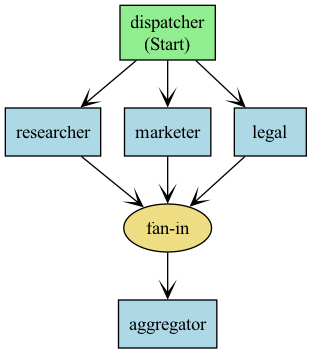
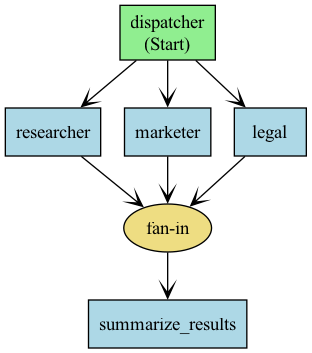
a

Changed region(s): [[0.2596, 0.8414, 0.8077, 0.9972]]

diff --git a/nlp_processing/43/run.py b/nlp_processing/43/run.py
@@ -3,12 +3,36 @@ from typing import Any
 from azure.identity.aio import AzureCliCredential
 from agent_framework.azure import AzureOpenAIChatClient
 from agent_framework import ConcurrentBuilder
-from agent_framework import ChatMessage, WorkflowOutputEvent, WorkflowViz
+from agent_framework import ChatMessage, Role, WorkflowOutputEvent, WorkflowViz
 
 
-def create_workflow() -> None:
-    chat_client = AzureOpenAIChatClient(credential=AzureCliCredential())
+def create_workflow(chat_client: AzureOpenAIChatClient) -> None:
+    # カスタムアグリゲーター関数を定義（chat_clientにアクセスするためにクロージャーを使用）
+    async def summarize_results(results: list[Any], ctx: Any) -> str:
+        # Extract one final assistant message per agent
+        expert_sections: list[str] = []
+        for r in results:
+            try:
+                messages = getattr(r.agent_run_response, "messages", [])
+                final_text = messages[-1].text if messages and hasattr(messages[-1], "text") else "(no content)"
+                expert_sections.append(f"{getattr(r, 'executor_id', 'expert')}:\n{final_text}")
+            except Exception as e:
+                expert_sections.append(f"{getattr(r, 'executor_id', 'expert')}: (error: {type(e).__name__}: {e})")
 
+        # Ask the model to synthesize a concise summary of the experts' outputs
+        system_msg = ChatMessage(
+            Role.SYSTEM,
+            text=(
+                "あなたは複数のドメイン専門家の出力を1つのまとまりのある簡潔な要約に統合する"
+                "優秀なアシスタントです。重要なポイントを明確にして、200語以内にまとめてください。"
+            ),
+        )
+        user_msg = ChatMessage(Role.USER, text="\n\n".join(expert_sections))
+
+        response = await chat_client.get_response([system_msg, user_msg])
+        # Return the model's final assistant text as the completion result
+        return response.messages[-1].text if response.messages else ""
+    
     # 1) AI Agent を作成する
     researcher = chat_client.create_agent(
         instructions=(
@@ -32,8 +56,19 @@ def create_workflow() -> None:
     )
 
     # 2) マルチ AI Agent から構成される並列処理のワークフローを作成する
-    # Participants are either Agents (type of AgentProtocol) or Executors
-    workflow = ConcurrentBuilder().participants([researcher, marketer, legal]).build()
+    # デフォルトの aggregator を使用する場合
+    # workflow = (
+    #     ConcurrentBuilder()
+    #     .participants([researcher, marketer, legal])
+    #     .build()
+    # )
+    # 独自の aggregator を使用する場合
+    workflow = (
+        ConcurrentBuilder()
+        .participants([researcher, marketer, legal])
+        .with_aggregator(summarize_results)
+        .build()
+    )
     return workflow
 
 
@@ -49,15 +84,21 @@ async def run_workflow(workflow) -> None:
 
     if completion:
         print("===== 最終的な応答 (messages) =====")
-        messages: list[ChatMessage] | Any = completion.data
-        for i, msg in enumerate(messages, start=1):
-            name = msg.author_name if msg.author_name else "user"
-            print(f"{'-' * 60}\n\n{i:02d} [{name}]:\n{msg.text}")
+        # デフォルトの aggregator を使用する場合
+        # messages: list[ChatMessage] | Any = completion.data
+        # for i, msg in enumerate(messages, start=1):
+        #     name = msg.author_name if msg.author_name else "user"
+        #     print(f"{'-' * 60}\n\n{i:02d} [{name}]:\n{msg.text}")
+
+        # 独自の aggregator を使用する場合
+        print(completion.data)
 
 
 if __name__ == "__main__":
+    chat_client = AzureOpenAIChatClient(credential=AzureCliCredential())
+
     # AI Agent とワークフローを作成
-    workflow = create_workflow()
+    workflow = create_workflow(chat_client)
 
     # ワークフローを実行
     asyncio.run(run_workflow(workflow))

diff --git a/nlp_processing/43/README.md b/nlp_processing/43/README.md
@@ -52,7 +52,7 @@
 
     ポイントは、以下の通り
 
-    - 以下の３つの AI Agent の並列処理から構成されるマルチエージェントのワークフローになっている
+    - 以下の３つの AI Agent の並列処理と１つの要約用 aggregator から構成されるマルチエージェントのワークフローになっている
 
         - Researcher の AI Agent
             - プロンプトで市場調査と製品調査の専門家と指示しただけの簡単な AI Agent
@@ -63,15 +63,21 @@
         - Legal の AI Agent
             - プロンプトで法務・コンプライアンスレビュアーと指示しただけの簡単な AI Agent
 
+        - 要約用 aggregator (AI Agent とみなすこともできる)
+
+            上記３つの AI Agent の応答を要約する AI Agent
+
+
 1. Microsoft Agent Framework を使用したコードを実行する
 
     ```bash
     python run.py
     ```
 
+    各 Agent の応答
+
     ```bash
     入力プロンプト:  新しい価格帯の電動自転車を都市部での通勤に向けて発売することについて、市場調査と製品調査を行ってください。
-    ===== 最終的な応答 (messages) =====
     ------------------------------------------------------------
 
     01 [user]:
@@ -189,7 +195,15 @@
     以上の点を考慮しながら、適切な市場調査と製品調査を行い、法的なリスクを軽減し、健全な商品提供を目指すことが重要です。
     ```
 
-    ３つつのマルチ AI Agent それぞれで回答を出力し集約している簡単なマルチエージェントシステムになっていることがわかる
+    最終的な応答は、独自の要約用 aggregator によって、まとめられたものになる
+
+    ```bash
+    電動自転車市場は、持続可能な交通手段の需要増加に伴い成長しています。特に通勤者層（ミレニアル世代やZ世代）をターゲットにし、手頃な価格帯（60,000円〜100,000円）を設定することが提案されています。競合分析によると、既存ブランドとの価格競争が進行中で、低価格帯市場が有望な成長セグメントです。製品調査では、耐久性や機能性、デザインが重視されており、特にスマート機能の搭載がユーザーの満足度向上につながると考えられます。
+
+    法務面では、製品規制の遵守や知的財産権に注意が必要であり、利用者への安全性情報の提供も成約です。環境への配慮やデータ保護に関するポリシーも遵守することが求められ、法令遵守を意識したプロジェクト推進が重要です。これらを考慮しつつ、マーケティング戦略を策定することが、成功の鍵となるでしょう。
+    ```
+
+    ３つつのマルチ AI Agent それぞれで回答を出力し、独自の要約用 aggregator (AI Agent) で集約している簡単なマルチエージェントシステムになっていることがわかる
 
     ```mermaid
     flowchart TD
@@ -197,12 +211,12 @@
         researcher["researcher"];
         marketer["marketer"];
         legal["legal"];
-        aggregator["aggregator"];
-        fan_in__aggregator__e3a4ff58((fan-in))
-        legal --> fan_in__aggregator__e3a4ff58;
-        marketer --> fan_in__aggregator__e3a4ff58;
-        researcher --> fan_in__aggregator__e3a4ff58;
-        fan_in__aggregator__e3a4ff58 --> aggregator;
+        summarize_results["summarize_results"];
+        fan_in__summarize_results__83b51ad6((fan-in))
+        legal --> fan_in__summarize_results__83b51ad6;
+        marketer --> fan_in__summarize_results__83b51ad6;
+        researcher --> fan_in__summarize_results__83b51ad6;
+        fan_in__summarize_results__83b51ad6 --> summarize_results;
         dispatcher --> researcher;
         dispatcher --> marketer;
         dispatcher --> legal;
